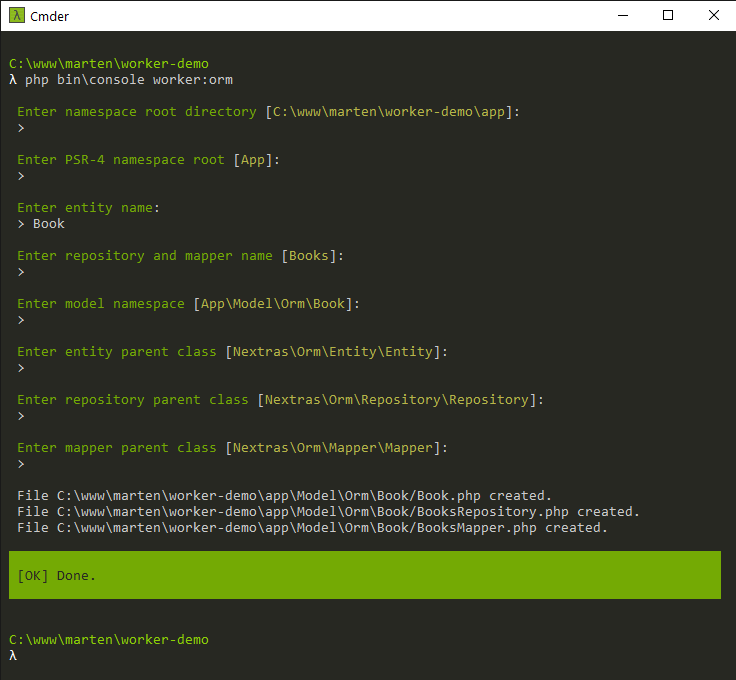
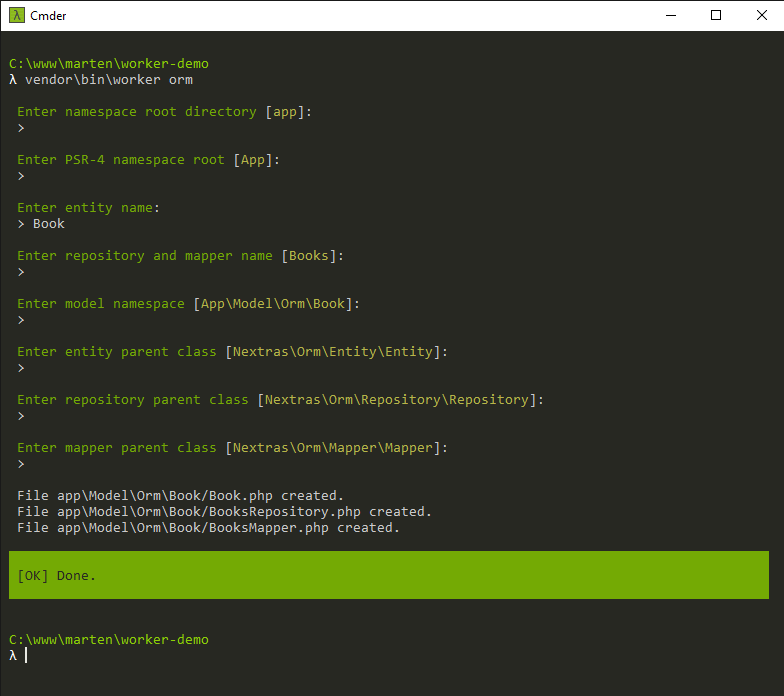
drop support for nette extension

diff --git a/src/Job/PresenterJob.php b/src/Job/PresenterJob.php
@@ -17,7 +17,7 @@ class PresenterJob extends AbstractJob
 
 	public static function getCommandName(): string
 	{
-		return 'worker:presenter';
+		return 'presenter';
 	}
 
 	public function configureCommand(Command $command): void

diff --git a/src/Job/CommandJob.php b/src/Job/CommandJob.php
@@ -17,7 +17,7 @@ class CommandJob extends AbstractJob
 
 	public static function getCommandName(): string
 	{
-		return 'worker:command';
+		return 'command';
 	}
 
 	public function configureCommand(Command $command): void

diff --git a/src/Job/ControlJob.php b/src/Job/ControlJob.php
@@ -17,7 +17,7 @@ class ControlJob extends AbstractJob
 
 	public static function getCommandName(): string
 	{
-		return 'worker:control';
+		return 'control';
 	}
 
 	public function configureCommand(Command $command): void

diff --git a/src/Job/OrmJob.php b/src/Job/OrmJob.php
@@ -17,7 +17,7 @@ class OrmJob extends AbstractJob
 
 	public static function getCommandName(): string
 	{
-		return 'worker:orm';
+		return 'orm';
 	}
 
 	public function configureCommand(Command $command): void

diff --git a/README.md b/README.md
@@ -16,32 +16,28 @@ composer require adbros/worker --dev
 ```
 
 ## Configuration
+Create worker.php, worker.json or worker.neon in your root directory
 
+### worker.neon example
 ```yaml
-extensions:
-    worker: Adbros\Worker\DI\WorkerExtension
+appDir: app # application root directory
 ```
-
-You should enable this extension only  in your local.neon file.
 
 ## Usage
 
 ```shell
 # Generate command for symfony/console package
-php bin/console worker:command [options] [--] [<name>]
+vendor/bin/worker command [options] [--] [<name>]
 
 # Generate control with factory and template
-php bin/console worker:control [options] [--] [<name>]
+vendor/bin/worker control [options] [--] [<name>]
 
 # Generate model for nextras/orm package
-php bin/console worker:orm [options] [--] [<entity> [<repository>]]
+vendor/bin/worker orm [options] [--] [<entity> [<repository>]]
 
 # Generate presenter and default template
-php bin/console worker:presenter [options] [--] [<name>]
+vendor/bin/worker presenter [options] [--] [<name>]
 ```
-
-## Create your own jobs
-Just create a class that implements ```Adbros\Worker\IJob``` and register it to DI container. That's it.
 
 ## Examples
 
